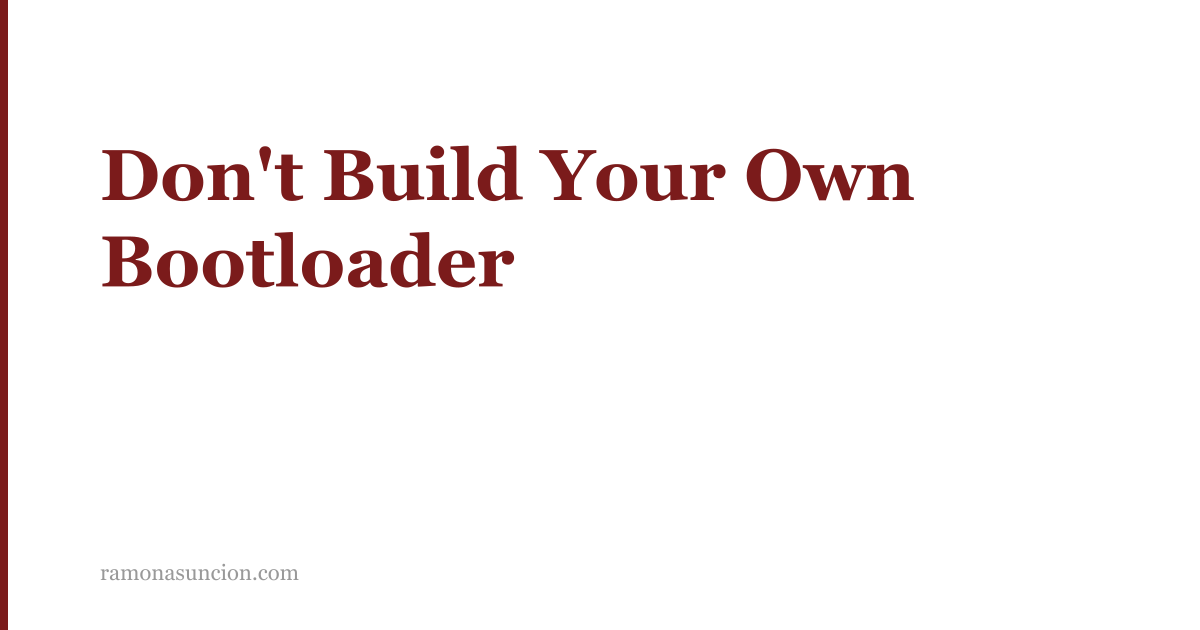
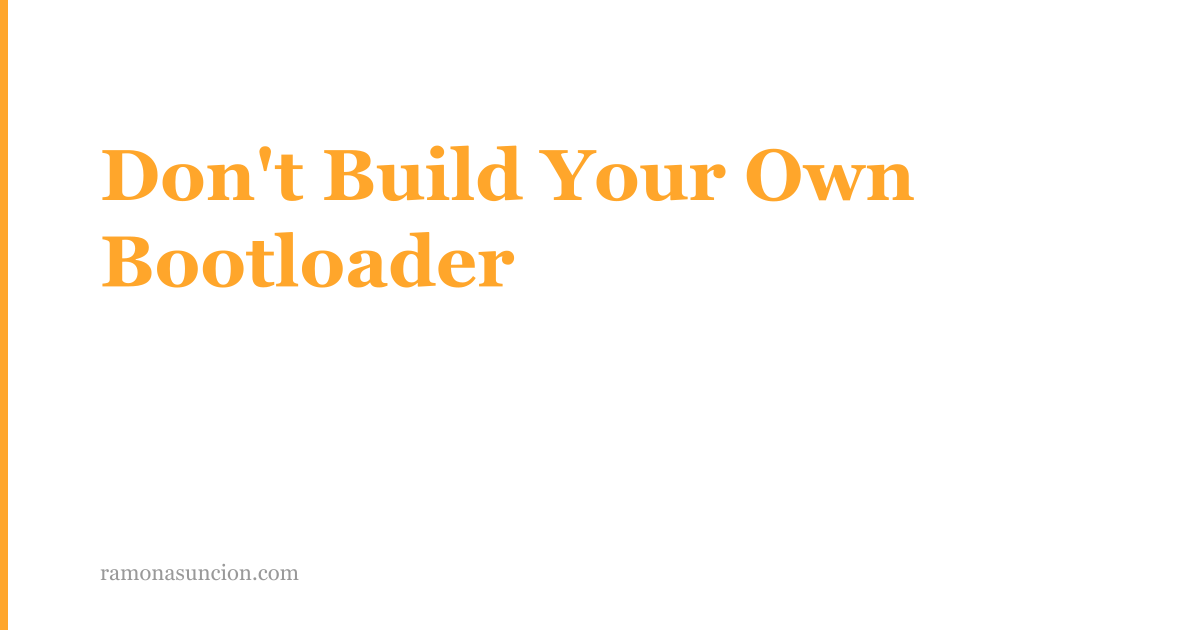
Replace accent color

Changed region(s): [[0.0925, 0.2111, 0.7708, 0.3317], [0.0, 0.0, 0.0308, 1.0], [0.0925, 0.3619, 0.4317, 0.4524]]

diff --git a/build.js b/build.js
@@ -179,7 +179,7 @@ async function generateOgImage(title, outPath) {
   const titleLines = lines
     .map(
       (line, i) =>
-        `<text x="100" y="${startY + i * lineHeight}" font-family="Georgia, serif" font-size="${fontSize}" font-weight="700" fill="#7b1b1b">${escape(line)}</text>`,
+        `<text x="100" y="${startY + i * lineHeight}" font-family="Georgia, serif" font-size="${fontSize}" font-weight="700" fill="#ffa62b">${escape(line)}</text>`,
     )
     .join("\n  ");
 

diff --git a/assets/styles.css b/assets/styles.css
@@ -4,7 +4,7 @@
 
 /* Root variables */
 :root {
-  --accent: #7b1b1b;
+  --accent: rgb(255, 166, 43);
   --bg: #ffffff;
   --muted: #666;
   --max-width: 720px;
